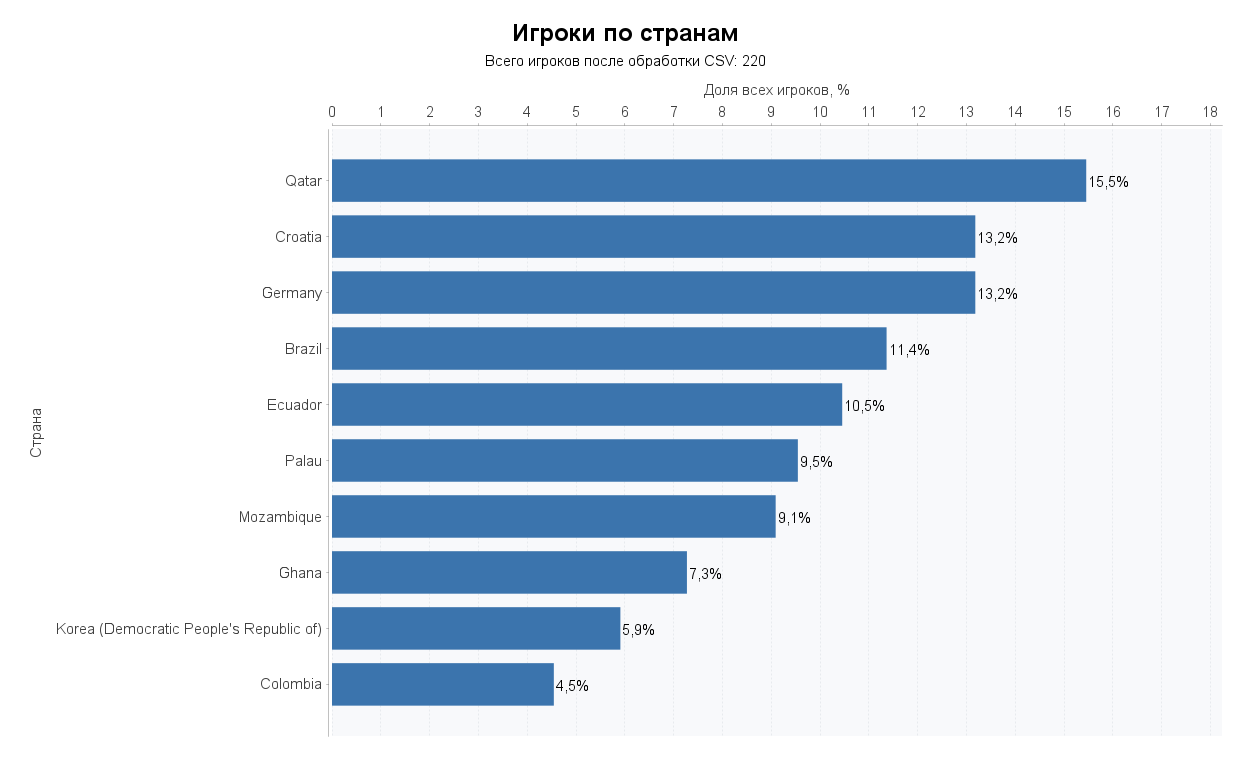
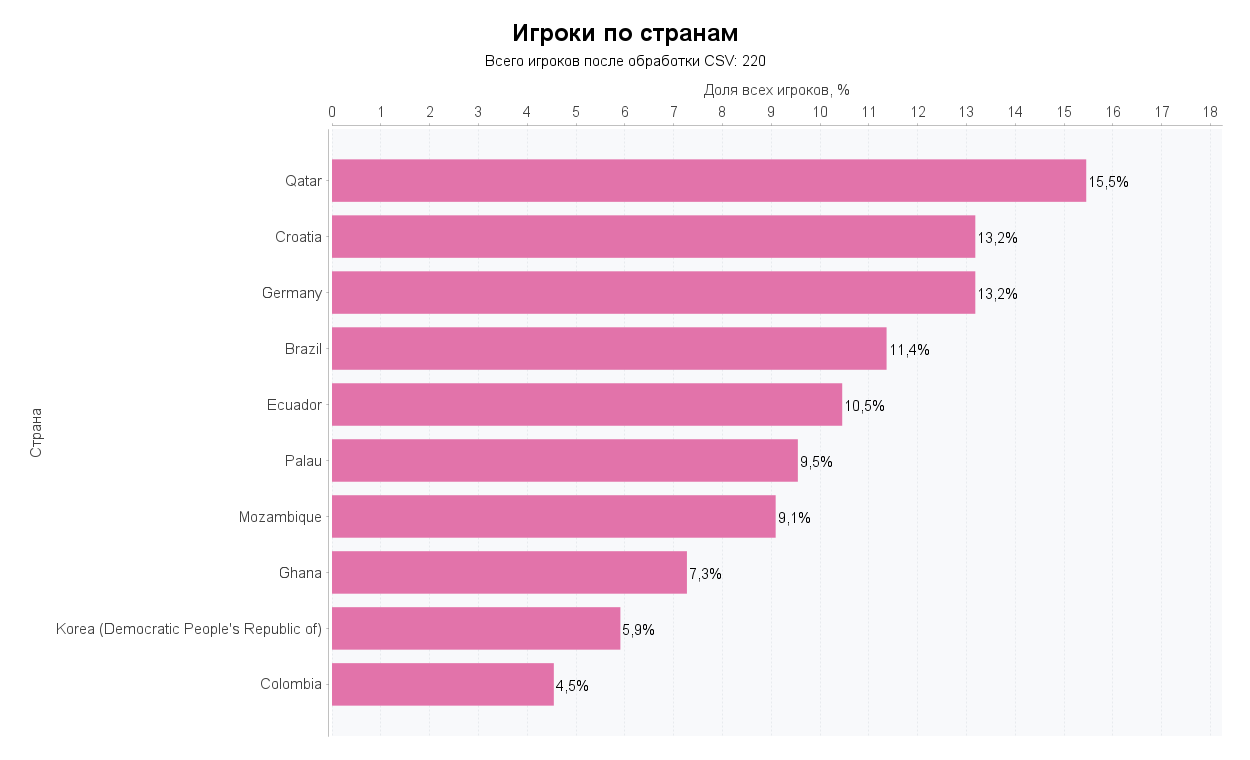
Use pink palette for variant four charts

Changed region(s): [[0.2496, 0.2118, 0.8736, 0.9382]]

diff --git a/src/main/kotlin/visualization/Variant4Charts.kt b/src/main/kotlin/visualization/Variant4Charts.kt
@@ -65,7 +65,7 @@ object Variant4Charts {
             addSubtitle(TextTitle("Всего игроков после обработки CSV: ${players.size}", textFont))
             categoryPlot.rangeAxis.upperMargin = 0.18
             (categoryPlot.renderer as BarRenderer).apply {
-                setSeriesPaint(0, Color(59, 116, 173))
+                setSeriesPaint(0, Color(226, 115, 170))
                 setDefaultItemLabelGenerator(StandardCategoryItemLabelGenerator("{2}%", DecimalFormat("0.0")))
                 setDefaultItemLabelsVisible(true)
                 setDefaultItemLabelFont(textFont)
@@ -92,7 +92,7 @@ object Variant4Charts {
                 domainAxis.maximumCategoryLabelWidthRatio = 2.0f
                 rangeAxis.upperMargin = 0.18
                 (renderer as BarRenderer).apply {
-                    setSeriesPaint(0, Color(59, 116, 173))
+                    setSeriesPaint(0, Color(226, 115, 170))
                     setDefaultItemLabelGenerator(StandardCategoryItemLabelGenerator("{2}", DecimalFormat("0.0")))
                     setDefaultItemLabelsVisible(true)
                     setDefaultItemLabelFont(textFont)
@@ -105,7 +105,7 @@ object Variant4Charts {
                 })
                 mapDatasetToRangeAxis(1, 1)
                 setRenderer(1, LineAndShapeRenderer(true, true).apply {
-                    setSeriesPaint(0, Color(201, 91, 40))
+                    setSeriesPaint(0, Color(173, 54, 125))
                     setSeriesStroke(0, BasicStroke(3f))
                     setDefaultItemLabelGenerator(StandardCategoryItemLabelGenerator("{2}%", DecimalFormat("0.0")))
                     setDefaultItemLabelsVisible(true)
